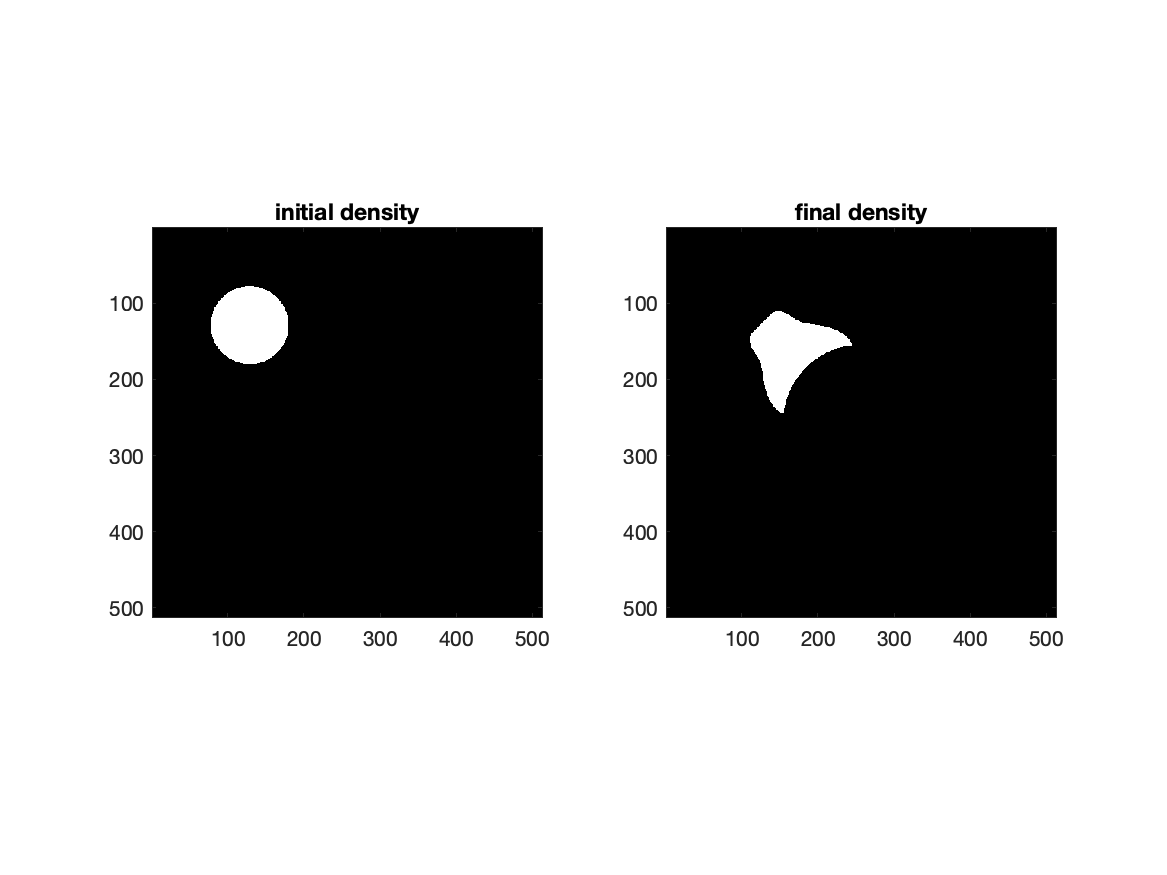
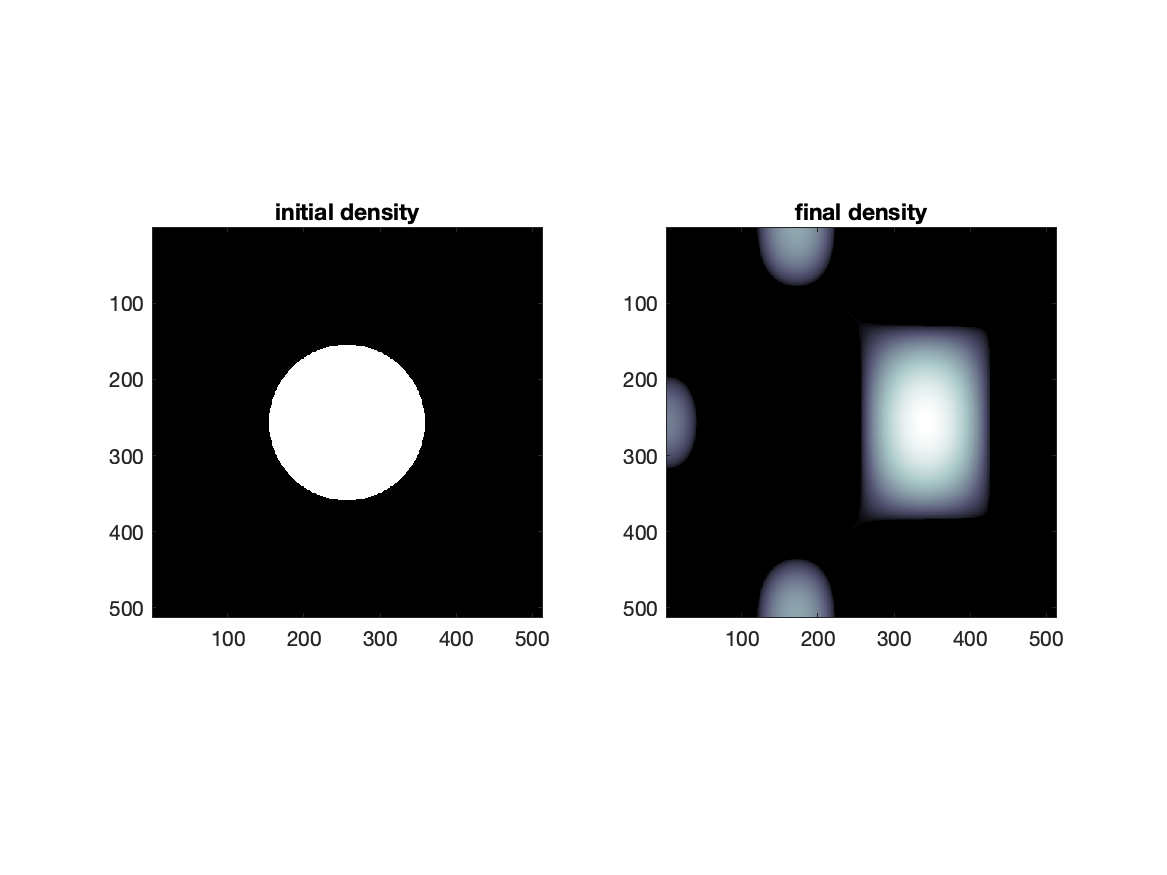
slow diffusion works very nicely. 40 frames 120 seconds!

diff --git a/example_slow.m b/example_slow.m
@@ -2,35 +2,31 @@
 
 % Parameters
 n = 512;         % The size of the grid
-maxIters = 500;  % Maximum iterations for the Back-and-Forth method
-TOL = 1e-3;      % Tolerance for the Back-and-Forth method
+maxIters = 200;  % Maximum iterations for the Back-and-Forth method
+TOL = 1e-2;      % Tolerance for the Back-and-Forth method
 nt  = 40;        % The number of outer iterations
 tau = 0.005;     % Time step for JKO scheme
-m   = 4;         % m of internal energy
+m   = 3;         % m of internal energy
 gamma = 0.01;    % gamma of internal energy
 verbose  = 1;    % print out logs 
-saveData = 1;    % Save the csv data in figures folder
-filename = 'data/mu'; % Set the filename
-
+folder = 'data'; % Set the folder directory to save the data
 
 [x,y] = meshgrid(linspace(0,1,n));
 
 % Define initial density
 mu = zeros(n);
-idx = (x-0.25).^2 + (y-0.25).^2 < 0.1^2;
+idx = (x-0.5).^2 + (y-0.5).^2 < 0.2^2;
 mu(idx) = 1;
 mu = mu / sum(mu(:)) * n*n;
 
 % Define a quadratic potential
-V = 5 * ((x-0.9).^2 + (y-0.9).^2);
+V = 1 * (1 + cos(3*pi*x) .* cos(2*pi*y));
 
 % Define an obstacle
 obstacle = zeros(n);
-idx = (x-0.5).^2 + (y-0.5).^2 < 0.2^2;
-obstacle(idx) = 1;
 
 % Run BFM!
-result = wgfslow(mu, V, obstacle, maxIters, TOL, nt, tau, m, gamma, verbose, saveData, filename);
+result = wgfslow(mu, V, obstacle, m, gamma, maxIters, TOL, nt, tau, folder, verbose);
 
 
 %% Plot
@@ -51,18 +47,23 @@ hold off
 
 saveas(gcf, "./figures/initial-final.png");
 
-% Save figures in figures folder
-figure(1)
+fig = figure;
+movieName = 'movie.gif';
+
 for i = 0:nt
-    subplot(1,1,1);
-    filename_full = sprintf("%s-%d.dat", filename, i);
-    fileId = fopen(filename_full);
-    im = fread(fileId,[n n],'double');
-    imagesc(im);
-    colormap bone
-    axis square
-    set(gca,'xticklabel',{[]})
-    set(gca,'yticklabel',{[]})
-    filename_full = sprintf("./figures/fig-%d.png", i);
-    saveas(gcf, filename_full)
+        file = fopen(sprintf("%s/rho-%04d.dat", folder, i), 'r');
+        rho = fread(file, [n n], 'double');
+        imagesc(rho);
+        axis square
+        set(gca,'XTickLabel',[], 'YTickLabel',[])
+        frame = getframe(fig);
+        im = frame2im(frame);
+        [X,cmap] = rgb2ind(im, 256);
+
+        % Write to the GIF file
+        if i == 0
+                imwrite(X, cmap, movieName, 'gif', 'DelayTime', 0.1, 'Loopcount', inf);
+        else
+                imwrite(X, cmap, movieName, 'gif', 'DelayTime', 0.1, 'WriteMode', 'append');
+        end
 end

diff --git a/src/wgfinc.cpp b/src/wgfinc.cpp
@@ -20,9 +20,9 @@ void create_dat_file(const double* A, int size, string filename, const int n, co
     if(saveData == 0) return;
 
     char filename_tmp[30];
-    sprintf(filename_tmp, "%s-%04d.dat", filename.c_str(), n);
+    sprintf(filename_tmp, "%s/rho-%04d.dat", filename.c_str(), n);
 
-    cout << "filename_tmp : " << filename_tmp << "\n";
+    // cout << "filename_tmp : " << filename_tmp << "\n";
 
     // save as bin files
     ofstream out(filename_tmp, ios::out | ios::binary);
@@ -42,6 +42,14 @@ bool compare_char_string(const char c[], const string& s){
     return true;
 }
 
+string process_string(char* input_char, int charSize){
+    string result = "";
+    for(int i=0;i<charSize;++i)
+        if(input_char[i] != '\\' && input_char[i] != '/')
+            result += input_char[i];
+    return result;
+}
+
 void check_saveData_input(int saveData, string& filename, char* input_char, const mxArray *prhs[], int charSize, int idx){
     if(saveData != 0 && saveData != 1){
         mexErrMsgTxt("wrong input for saveData.\nsaveData should be one of the following: 1: save the data, 0: don't save the data");
@@ -49,7 +57,8 @@ void check_saveData_input(int saveData, string& filename, char* input_char, cons
 
     if(saveData != 0) mxGetString(prhs[idx], input_char, charSize);
     
-    filename = input_char;
+    filename = process_string(input_char, charSize);
+
     // filename = "./data/" + filename;
 }
 
@@ -72,9 +81,9 @@ void mexFunction( int nlhs, mxArray *plhs[],
     double gamma      = 0;
     int    verbose    = 0;
 
-    verbose = (int) mxGetScalar(prhs[7]);
-    int saveData = (int) mxGetScalar(prhs[8]);
-    check_saveData_input(saveData, filename, input_char, prhs, charSize, 9); 
+    int saveData = 1;
+    check_saveData_input(saveData, filename, input_char, prhs, charSize, 7); 
+    verbose = (int) mxGetScalar(prhs[8]);
 
     int n1=mxGetM(prhs[0]);
     int n2=mxGetN(prhs[0]);

diff --git a/src/BFMSlow.h b/src/BFMSlow.h
@@ -36,7 +36,7 @@ public:
         cout << setprecision(6);
         cout << fixed;
         // cout <<setw(5)<<iter+1 << " C : " << C_phi << "  infgradphi : " << infgradphi << "  c1 : " << phi_c1_ << " " << psi_c1_ << " coeff : " << setw(10) << phi_c2_/phi_c1_ << " " << setw(6) << psi_c2_/psi_c1_ << "  W2 : " << scientific << setw(13) << W2_value << "  L1 error : "<<scientific<<setw(13) << error_mu << " " << error_nu<<"\n";
-        printf("%5d \tdual: %5.4f\tL1 error: %5.4f\n", iter+1, W2_value,  error_mu);
+        printf("%5d \tDual value: %5.4f\tL1 error: %5.4f\n", iter+1, W2_value,  error_mu);
         // printf("%5d C: %5.4f\tc1: %8.4f %8.4f\tc2: %8.4f %8.4f\tdual: %8.4f\tL1 error: %8.4f %8.4f\n", iter+1, C_phi, phi_c1_, psi_c1_, phi_c2_, psi_c2_, W2_value, error_mu, error_nu);
     }
 
@@ -91,7 +91,7 @@ public:
         double mu_max = 1;
         for(int i=0;i<n1*n2;++i) mu_max = fmax(mu_max, mu[i]);
 
-        cout << "Iter : " << outer_iter + 1 << " Tolerance : " << tolerance_ << "\n";
+        cout << "Iter : " << outer_iter + 1 << "\n";
 
         /* Initialize the constants */
 

diff --git a/src/wgfslow.cpp b/src/wgfslow.cpp
@@ -13,6 +13,7 @@
 #include "BFM.h"
 #include "BFMSlow.h"
 #include "BFMIncomp.h"
+
 using namespace std;
 
 void create_dat_file(const double* A, int size, string filename, const int n, const int saveData){
@@ -22,7 +23,7 @@ void create_dat_file(const double* A, int size, string filename, const int n, co
     char filename_tmp[30];
     sprintf(filename_tmp, "%s/rho-%04d.dat", filename.c_str(), n);
 
-    cout << "filename_tmp : " << filename_tmp << "\n";
+    // cout << "filename_tmp : " << filename_tmp << "\n";
 
     // save as bin files
     ofstream out(filename_tmp, ios::out | ios::binary);
@@ -58,6 +59,7 @@ void check_saveData_input(int saveData, string& filename, char* input_char, cons
     if(saveData != 0) mxGetString(prhs[idx], input_char, charSize);
     
     filename = process_string(input_char, charSize);
+
     // filename = "./data/" + filename;
 }
 
